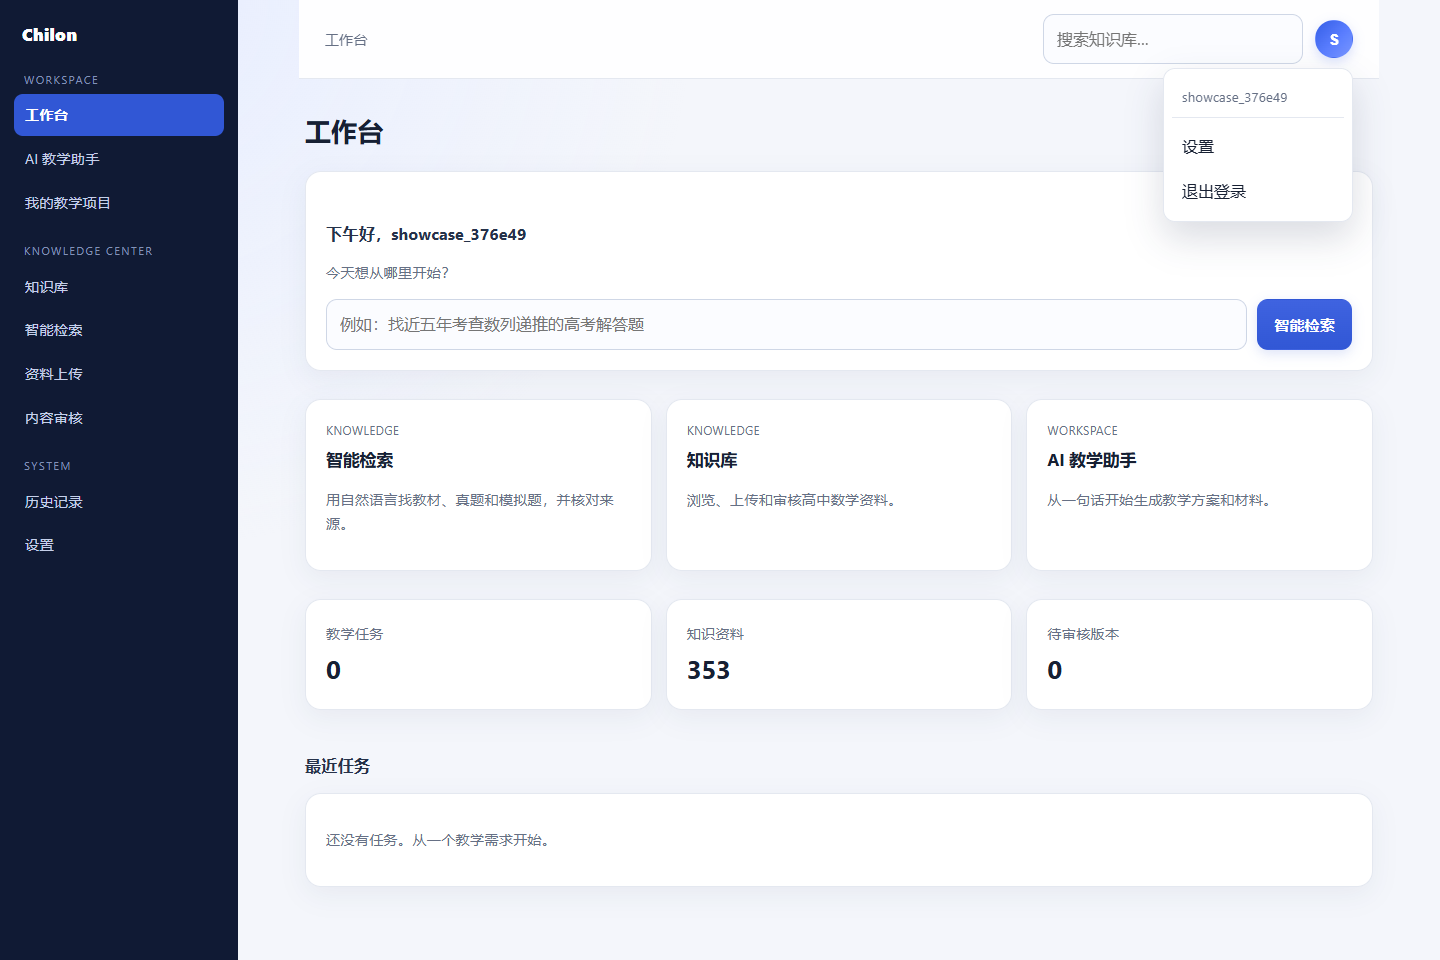
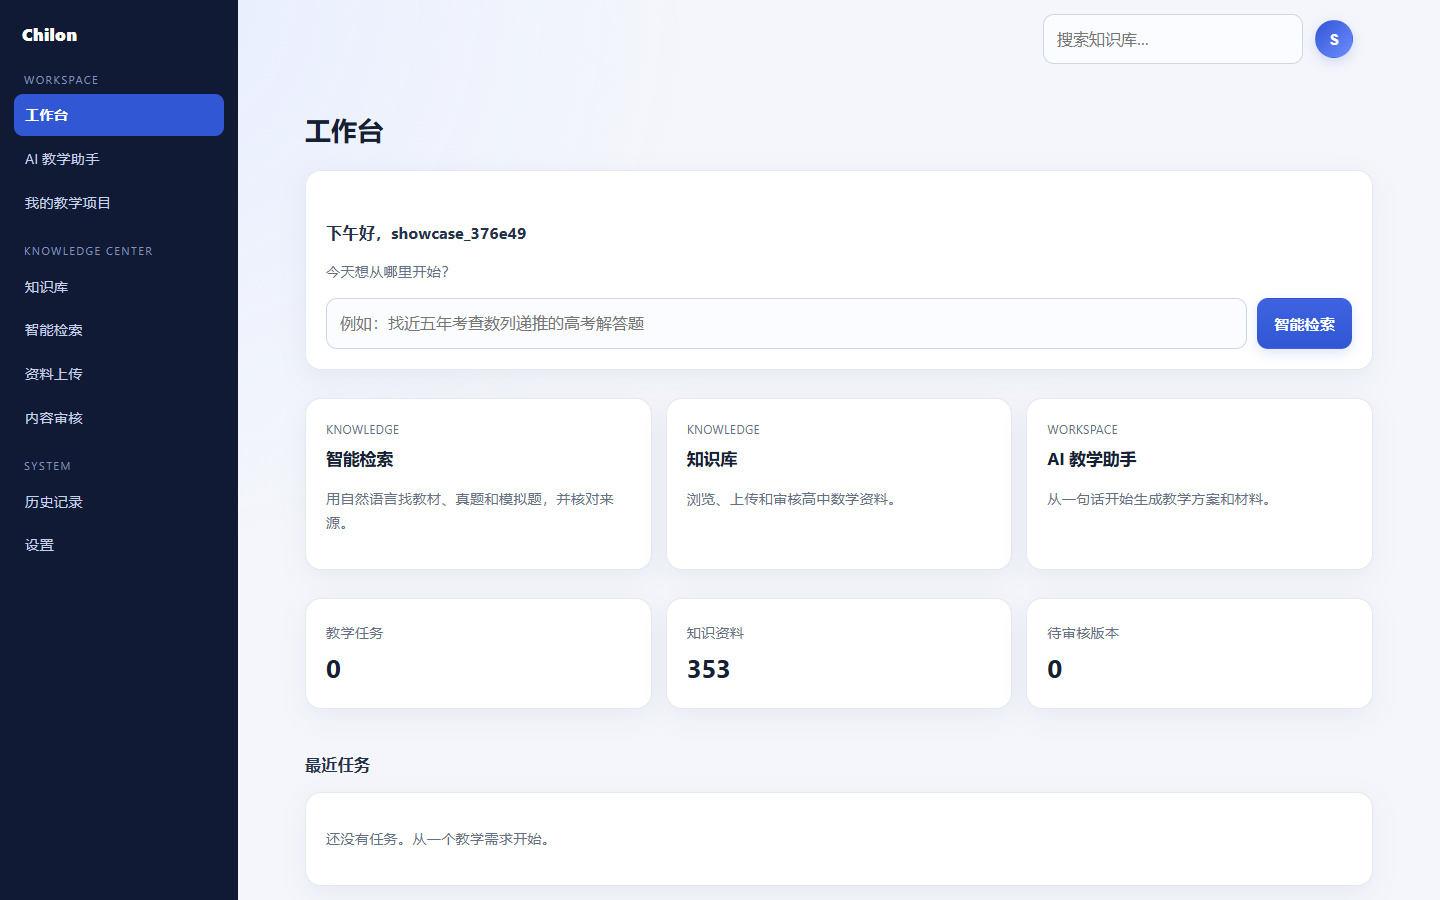
style: remove topbar page label and use transparent header

diff --git a/backend/app/api/ui.py b/backend/app/api/ui.py
@@ -154,9 +154,9 @@ pre {
 .nav-item.active { background: #3157d5; color: #fff; font-weight: 650; }
 .main-shell { flex: 1; min-width: 0; }
 .topbar {
-  display: flex; justify-content: space-between; align-items: center; gap: 16px;
-  padding: 14px 26px; background: #ffffffee; border-bottom: 1px solid var(--line);
-  position: sticky; top: 0; z-index: 5; backdrop-filter: blur(8px);
+  display: flex; justify-content: flex-end; align-items: center; gap: 16px;
+  padding: 14px 26px; background: transparent; border-bottom: 0;
+  position: sticky; top: 0; z-index: 5;
 }
 .crumb { color: var(--muted); font-size: 0.88rem; }
 .top-actions { display: flex; align-items: center; gap: 12px; }
@@ -258,7 +258,6 @@ def page(title: str, body: str, *, teacher: str | None = None,
         initial = esc((teacher.strip()[:1] or '师').upper())
         top = (
             '<header class="topbar">'
-            f'<span class="crumb">{esc(title)}</span>'
             '<div class="top-actions">'
             '<form class="top-search" method="get" action="/ui/search">'
             '<input name="q" placeholder="搜索知识库…" aria-label="搜索知识库"></form>'
